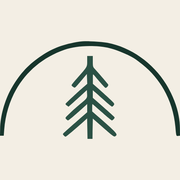
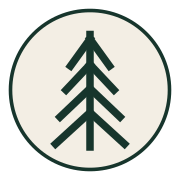
Add files via upload

diff --git a/team.html b/team.html
@@ -1,22 +1,22 @@
-<!doctype html><html lang="en"><head><link rel="icon" href="images/favicon.svg" type="image/svg+xml"><link rel="icon" href="images/favicon-32.png" sizes="32x32" type="image/png"><link rel="icon" href="images/favicon.ico" sizes="any"><link rel="apple-touch-icon" href="images/apple-touch-icon.png"><meta charset="utf-8"><meta name="viewport" content="width=device-width,initial-scale=1"><title>Our Team | Fir Forensics</title><meta name="description" content="Meet Rick Adams and Ryan Adams, the leadership team behind Fir Forensics."><meta name="theme-color" content="#17352c"><link rel="preconnect" href="https://fonts.googleapis.com"><link rel="preconnect" href="https://fonts.gstatic.com" crossorigin><link href="https://fonts.googleapis.com/css2?family=DM+Sans:wght@400;500;600;700&family=Libre+Caslon+Display&display=swap" rel="stylesheet"><link rel="stylesheet" href="css/styles.css?v=12684427"></head><body data-page="team"><a class="skip-link" href="#main">Skip to content</a>
-<header class="site-header"><div class="container header-inner"><div class="brand"><a class="brand-icon-link" href="index.html" aria-label="Fir Forensics home"><svg class="brand-icon" viewBox="0 0 288 156.141338" xmlns="http://www.w3.org/2000/svg" aria-hidden="true"><g transform="translate(-27.5,195.641338) scale(0.1,-0.1)"><path d="M1545 1950 c-251 -39 -419 -101 -603 -224 -208 -138 -340 -279 -476
--509 -111 -189 -186 -449 -189 -662 l-2 -110 30 0 30 0 7 95 c48 611 407 1086
-965 1281 115 39 246 59 400 59 225 0 356 -28 569 -123 122 -54 156 -75 282
--176 301 -243 487 -595 523 -994 14 -153 13 -149 46 -145 l28 3 -1 115 c-2
-232 -77 472 -222 710 -206 337 -566 591 -937 661 -124 23 -356 33 -450 19z" fill="#17352c"/><path d="M1670 1638 c0 -94 6 -85 -167 -280 -46 -51 -83 -98 -83 -104 0 -6 12
--20 26 -29 30 -20 19 -30 157 134 l62 74 3 -79 3 -79 -52 -45 c-93 -79 -292
--265 -295 -275 -2 -6 8 -18 22 -28 l25 -18 77 68 c42 37 109 97 147 133 l70
-65 3 -59 c4 -68 4 -68 -113 -166 -45 -37 -117 -101 -160 -143 -80 -75 -80 -75
--61 -96 11 -11 23 -21 29 -21 10 0 88 65 220 183 l87 79 0 -65 0 -66 -66 -58
-c-74 -64 -225 -198 -288 -254 -41 -37 -41 -37 -22 -58 11 -12 24 -21 30 -21
-10 0 113 86 285 238 l60 54 3 -164 3 -163 40 0 40 0 1 95 c1 52 2 125 3 162
-l1 68 151 -133 c180 -158 192 -166 213 -148 37 31 28 42 -272 305 l-102 89 0
-59 c0 32 2 58 5 58 3 0 71 -59 151 -130 80 -72 151 -130 158 -130 16 0 49 36
-45 48 -4 9 -55 55 -286 258 l-63 55 0 61 0 60 34 -29 c19 -15 85 -74 147 -130
-63 -57 119 -103 126 -103 6 0 19 10 27 22 15 22 14 25 -39 78 -30 30 -109 102
--174 160 l-120 105 0 80 c0 77 0 79 17 60 113 -135 177 -205 187 -205 18 0 48
-37 42 52 -4 11 -119 145 -218 255 -27 30 -29 38 -29 118 l0 85 -45 0 -45 0 0
--82z" fill="#2b5145"/></g></svg></a><div class="brand-textstack"><a class="brand-name-link" href="index.html"><strong class="brand-name">Fir Forensics</strong></a><small class="brand-tagline">Workplace Investigations &bull; Ethics &bull; Compliance</small></div><a class="group-badge" href="https://firgroup.org" target="_blank" rel="noopener">A Member of The Fir Group Family</a></div><button class="nav-toggle" type="button" aria-label="Open navigation" aria-expanded="false"><span></span><span></span><span></span></button><nav class="primary-nav" aria-label="Primary navigation"><a href="about.html" data-page="about">About</a><a href="team.html" data-page="team">Our Team</a><a href="services.html" data-page="services">Services</a><a href="process.html" data-page="process">Our Process</a><a href="why-fir.html" data-page="why">Why Fir</a><a class="nav-cta" href="contact.html" data-page="contact">Confidential Consultation</a></nav></div></header>
+<!doctype html><html lang="en"><head><link rel="icon" href="images/favicon.svg" type="image/svg+xml"><link rel="icon" href="images/favicon-32.png" sizes="32x32" type="image/png"><link rel="icon" href="images/favicon.ico" sizes="any"><link rel="apple-touch-icon" href="images/apple-touch-icon.png"><meta charset="utf-8"><meta name="viewport" content="width=device-width,initial-scale=1"><title>Our Team | Fir Forensics</title><meta name="description" content="Meet Rick Adams and Ryan Adams, the leadership team behind Fir Forensics."><meta name="theme-color" content="#17352c"><link rel="preconnect" href="https://fonts.googleapis.com"><link rel="preconnect" href="https://fonts.gstatic.com" crossorigin><link href="https://fonts.googleapis.com/css2?family=DM+Sans:wght@400;500;600;700&family=Libre+Caslon+Display&display=swap" rel="stylesheet"><link rel="stylesheet" href="css/styles.css?v=12684427"><link rel="stylesheet" href="css/header-refinement.css?v=1"></head><body data-page="team"><a class="skip-link" href="#main">Skip to content</a>
+<header class="site-header">
+  <div class="container header-top">
+    <a class="brand" href="index.html" aria-label="Fir Forensics home">
+      <span class="brand-mark" aria-hidden="true"></span>
+      <span class="brand-textstack"><strong class="brand-name">FIR</strong><small class="brand-division">FORENSICS</small></span>
+    </a>
+    <a class="header-affiliation" href="https://firgroup.org" target="_blank" rel="noopener"><span>A member of</span><strong>The Fir Group Family</strong></a>
+    <button class="nav-toggle" type="button" aria-label="Open navigation" aria-expanded="false"><span></span><span></span><span></span></button>
+    <nav class="primary-nav" aria-label="Primary navigation">
+      <a href="about.html" data-page="about">About</a>
+      <a href="team.html" data-page="team">Our Team</a>
+      <a href="services.html" data-page="services">Services</a>
+      <a href="process.html" data-page="process">Our Process</a>
+      <a href="why-fir.html" data-page="why">Why Fir</a>
+      <a class="nav-cta" href="contact.html" data-page="contact">Confidential Consultation</a>
+    </nav>
+  </div>
+</header>
 <main id="main"><section class="subhero team-hero"><div class="hero-shade"></div><div class="container subhero-content reveal"><p class="eyebrow light">Our leadership</p><h1>Complementary experience. Shared standards.</h1><p>Fir Forensics brings together legal judgment, corporate risk and compliance leadership, operational discipline, and a commitment to fair, evidence-based investigations.</p></div></section>
 <section class="section"><div class="container"><div class="section-heading"><div><p class="eyebrow">Meet the team</p><h2>Senior professionals for matters that require judgment and credibility.</h2></div><p>Every engagement is approached with discretion, independence, and respect for the people and organizations involved.</p></div>
 <div class="team-grid">

diff --git a/index.html b/index.html
@@ -1,24 +1,11 @@
-<!doctype html><html lang="en"><head><link rel="icon" href="images/favicon.svg" type="image/svg+xml"><link rel="icon" href="images/favicon-32.png" sizes="32x32" type="image/png"><link rel="icon" href="images/favicon.ico" sizes="any"><link rel="apple-touch-icon" href="images/apple-touch-icon.png"><meta charset="utf-8"><meta name="viewport" content="width=device-width,initial-scale=1"><title>Fir Forensics | Workplace Investigations · Ethics · Compliance</title><meta name="description" content="Independent workplace investigations for employers, counsel, boards, and organizations."><meta name="theme-color" content="#17352c"><link rel="preconnect" href="https://fonts.googleapis.com"><link rel="preconnect" href="https://fonts.gstatic.com" crossorigin><link href="https://fonts.googleapis.com/css2?family=DM+Sans:wght@400;500;600;700&family=Libre+Caslon+Display&display=swap" rel="stylesheet"><link rel="stylesheet" href="css/styles.css?v=12684427"></head><body data-page="home"><a class="skip-link" href="#main">Skip to content</a>
+<!doctype html><html lang="en"><head><link rel="icon" href="images/favicon.svg" type="image/svg+xml"><link rel="icon" href="images/favicon-32.png" sizes="32x32" type="image/png"><link rel="icon" href="images/favicon.ico" sizes="any"><link rel="apple-touch-icon" href="images/apple-touch-icon.png"><meta charset="utf-8"><meta name="viewport" content="width=device-width,initial-scale=1"><title>Fir Forensics | Workplace Investigations · Ethics · Compliance</title><meta name="description" content="Independent workplace investigations for employers, counsel, boards, and organizations."><meta name="theme-color" content="#17352c"><link rel="preconnect" href="https://fonts.googleapis.com"><link rel="preconnect" href="https://fonts.gstatic.com" crossorigin><link href="https://fonts.googleapis.com/css2?family=DM+Sans:wght@400;500;600;700&family=Libre+Caslon+Display&display=swap" rel="stylesheet"><link rel="stylesheet" href="css/styles.css?v=12684427"><link rel="stylesheet" href="css/header-refinement.css?v=1"></head><body data-page="home"><a class="skip-link" href="#main">Skip to content</a>
 <header class="site-header">
-  <div class="container header-inner">
-    <div class="brand"><a class="brand-icon-link" href="index.html" aria-label="Fir Forensics home"><svg class="brand-icon" viewBox="0 0 288 156.141338" xmlns="http://www.w3.org/2000/svg" aria-hidden="true"><g transform="translate(-27.5,195.641338) scale(0.1,-0.1)"><path d="M1545 1950 c-251 -39 -419 -101 -603 -224 -208 -138 -340 -279 -476
--509 -111 -189 -186 -449 -189 -662 l-2 -110 30 0 30 0 7 95 c48 611 407 1086
-965 1281 115 39 246 59 400 59 225 0 356 -28 569 -123 122 -54 156 -75 282
--176 301 -243 487 -595 523 -994 14 -153 13 -149 46 -145 l28 3 -1 115 c-2
-232 -77 472 -222 710 -206 337 -566 591 -937 661 -124 23 -356 33 -450 19z" fill="#17352c"/><path d="M1670 1638 c0 -94 6 -85 -167 -280 -46 -51 -83 -98 -83 -104 0 -6 12
--20 26 -29 30 -20 19 -30 157 134 l62 74 3 -79 3 -79 -52 -45 c-93 -79 -292
--265 -295 -275 -2 -6 8 -18 22 -28 l25 -18 77 68 c42 37 109 97 147 133 l70
-65 3 -59 c4 -68 4 -68 -113 -166 -45 -37 -117 -101 -160 -143 -80 -75 -80 -75
--61 -96 11 -11 23 -21 29 -21 10 0 88 65 220 183 l87 79 0 -65 0 -66 -66 -58
-c-74 -64 -225 -198 -288 -254 -41 -37 -41 -37 -22 -58 11 -12 24 -21 30 -21
-10 0 113 86 285 238 l60 54 3 -164 3 -163 40 0 40 0 1 95 c1 52 2 125 3 162
-l1 68 151 -133 c180 -158 192 -166 213 -148 37 31 28 42 -272 305 l-102 89 0
-59 c0 32 2 58 5 58 3 0 71 -59 151 -130 80 -72 151 -130 158 -130 16 0 49 36
-45 48 -4 9 -55 55 -286 258 l-63 55 0 61 0 60 34 -29 c19 -15 85 -74 147 -130
-63 -57 119 -103 126 -103 6 0 19 10 27 22 15 22 14 25 -39 78 -30 30 -109 102
--174 160 l-120 105 0 80 c0 77 0 79 17 60 113 -135 177 -205 187 -205 18 0 48
-37 42 52 -4 11 -119 145 -218 255 -27 30 -29 38 -29 118 l0 85 -45 0 -45 0 0
--82z" fill="#2b5145"/></g></svg></a><div class="brand-textstack"><a class="brand-name-link" href="index.html"><strong class="brand-name">Fir Forensics</strong></a><small class="brand-tagline">Workplace Investigations &bull; Ethics &bull; Compliance</small></div><a class="group-badge" href="https://firgroup.org" target="_blank" rel="noopener">A Member of The Fir Group Family</a></div>
+  <div class="container header-top">
+    <a class="brand" href="index.html" aria-label="Fir Forensics home">
+      <span class="brand-mark" aria-hidden="true"></span>
+      <span class="brand-textstack"><strong class="brand-name">FIR</strong><small class="brand-division">FORENSICS</small></span>
+    </a>
+    <a class="header-affiliation" href="https://firgroup.org" target="_blank" rel="noopener"><span>A member of</span><strong>The Fir Group Family</strong></a>
     <button class="nav-toggle" type="button" aria-label="Open navigation" aria-expanded="false"><span></span><span></span><span></span></button>
     <nav class="primary-nav" aria-label="Primary navigation">
       <a href="about.html" data-page="about">About</a>

diff --git a/contact.html b/contact.html
@@ -1,24 +1,11 @@
-<!doctype html><html lang="en"><head><link rel="icon" href="images/favicon.svg" type="image/svg+xml"><link rel="icon" href="images/favicon-32.png" sizes="32x32" type="image/png"><link rel="icon" href="images/favicon.ico" sizes="any"><link rel="apple-touch-icon" href="images/apple-touch-icon.png"><meta charset="utf-8"><meta name="viewport" content="width=device-width,initial-scale=1"><title>Confidential Consultation | Fir Forensics</title><meta name="description" content="Contact Fir Forensics to discuss a workplace investigation, ethics matter, or compliance review."><meta name="theme-color" content="#17352c"><link rel="preconnect" href="https://fonts.googleapis.com"><link rel="preconnect" href="https://fonts.gstatic.com" crossorigin><link href="https://fonts.googleapis.com/css2?family=DM+Sans:wght@400;500;600;700&family=Libre+Caslon+Display&display=swap" rel="stylesheet"><link rel="stylesheet" href="css/styles.css?v=12684427"></head><body data-page="contact"><a class="skip-link" href="#main">Skip to content</a>
+<!doctype html><html lang="en"><head><link rel="icon" href="images/favicon.svg" type="image/svg+xml"><link rel="icon" href="images/favicon-32.png" sizes="32x32" type="image/png"><link rel="icon" href="images/favicon.ico" sizes="any"><link rel="apple-touch-icon" href="images/apple-touch-icon.png"><meta charset="utf-8"><meta name="viewport" content="width=device-width,initial-scale=1"><title>Confidential Consultation | Fir Forensics</title><meta name="description" content="Contact Fir Forensics to discuss a workplace investigation, ethics matter, or compliance review."><meta name="theme-color" content="#17352c"><link rel="preconnect" href="https://fonts.googleapis.com"><link rel="preconnect" href="https://fonts.gstatic.com" crossorigin><link href="https://fonts.googleapis.com/css2?family=DM+Sans:wght@400;500;600;700&family=Libre+Caslon+Display&display=swap" rel="stylesheet"><link rel="stylesheet" href="css/styles.css?v=12684427"><link rel="stylesheet" href="css/header-refinement.css?v=1"></head><body data-page="contact"><a class="skip-link" href="#main">Skip to content</a>
 <header class="site-header">
-  <div class="container header-inner">
-    <div class="brand"><a class="brand-icon-link" href="index.html" aria-label="Fir Forensics home"><svg class="brand-icon" viewBox="0 0 288 156.141338" xmlns="http://www.w3.org/2000/svg" aria-hidden="true"><g transform="translate(-27.5,195.641338) scale(0.1,-0.1)"><path d="M1545 1950 c-251 -39 -419 -101 -603 -224 -208 -138 -340 -279 -476
--509 -111 -189 -186 -449 -189 -662 l-2 -110 30 0 30 0 7 95 c48 611 407 1086
-965 1281 115 39 246 59 400 59 225 0 356 -28 569 -123 122 -54 156 -75 282
--176 301 -243 487 -595 523 -994 14 -153 13 -149 46 -145 l28 3 -1 115 c-2
-232 -77 472 -222 710 -206 337 -566 591 -937 661 -124 23 -356 33 -450 19z" fill="#17352c"/><path d="M1670 1638 c0 -94 6 -85 -167 -280 -46 -51 -83 -98 -83 -104 0 -6 12
--20 26 -29 30 -20 19 -30 157 134 l62 74 3 -79 3 -79 -52 -45 c-93 -79 -292
--265 -295 -275 -2 -6 8 -18 22 -28 l25 -18 77 68 c42 37 109 97 147 133 l70
-65 3 -59 c4 -68 4 -68 -113 -166 -45 -37 -117 -101 -160 -143 -80 -75 -80 -75
--61 -96 11 -11 23 -21 29 -21 10 0 88 65 220 183 l87 79 0 -65 0 -66 -66 -58
-c-74 -64 -225 -198 -288 -254 -41 -37 -41 -37 -22 -58 11 -12 24 -21 30 -21
-10 0 113 86 285 238 l60 54 3 -164 3 -163 40 0 40 0 1 95 c1 52 2 125 3 162
-l1 68 151 -133 c180 -158 192 -166 213 -148 37 31 28 42 -272 305 l-102 89 0
-59 c0 32 2 58 5 58 3 0 71 -59 151 -130 80 -72 151 -130 158 -130 16 0 49 36
-45 48 -4 9 -55 55 -286 258 l-63 55 0 61 0 60 34 -29 c19 -15 85 -74 147 -130
-63 -57 119 -103 126 -103 6 0 19 10 27 22 15 22 14 25 -39 78 -30 30 -109 102
--174 160 l-120 105 0 80 c0 77 0 79 17 60 113 -135 177 -205 187 -205 18 0 48
-37 42 52 -4 11 -119 145 -218 255 -27 30 -29 38 -29 118 l0 85 -45 0 -45 0 0
--82z" fill="#2b5145"/></g></svg></a><div class="brand-textstack"><a class="brand-name-link" href="index.html"><strong class="brand-name">Fir Forensics</strong></a><small class="brand-tagline">Workplace Investigations &bull; Ethics &bull; Compliance</small></div><a class="group-badge" href="https://firgroup.org" target="_blank" rel="noopener">A Member of The Fir Group Family</a></div>
+  <div class="container header-top">
+    <a class="brand" href="index.html" aria-label="Fir Forensics home">
+      <span class="brand-mark" aria-hidden="true"></span>
+      <span class="brand-textstack"><strong class="brand-name">FIR</strong><small class="brand-division">FORENSICS</small></span>
+    </a>
+    <a class="header-affiliation" href="https://firgroup.org" target="_blank" rel="noopener"><span>A member of</span><strong>The Fir Group Family</strong></a>
     <button class="nav-toggle" type="button" aria-label="Open navigation" aria-expanded="false"><span></span><span></span><span></span></button>
     <nav class="primary-nav" aria-label="Primary navigation">
       <a href="about.html" data-page="about">About</a>

diff --git a/services.html b/services.html
@@ -1,24 +1,11 @@
-<!doctype html><html lang="en"><head><link rel="icon" href="images/favicon.svg" type="image/svg+xml"><link rel="icon" href="images/favicon-32.png" sizes="32x32" type="image/png"><link rel="icon" href="images/favicon.ico" sizes="any"><link rel="apple-touch-icon" href="images/apple-touch-icon.png"><meta charset="utf-8"><meta name="viewport" content="width=device-width,initial-scale=1"><title>Services | Fir Forensics</title><meta name="description" content="Workplace investigations, executive matters, ethics and compliance fact-finding, and investigative review."><meta name="theme-color" content="#17352c"><link rel="preconnect" href="https://fonts.googleapis.com"><link rel="preconnect" href="https://fonts.gstatic.com" crossorigin><link href="https://fonts.googleapis.com/css2?family=DM+Sans:wght@400;500;600;700&family=Libre+Caslon+Display&display=swap" rel="stylesheet"><link rel="stylesheet" href="css/styles.css?v=12684427"></head><body data-page="services"><a class="skip-link" href="#main">Skip to content</a>
+<!doctype html><html lang="en"><head><link rel="icon" href="images/favicon.svg" type="image/svg+xml"><link rel="icon" href="images/favicon-32.png" sizes="32x32" type="image/png"><link rel="icon" href="images/favicon.ico" sizes="any"><link rel="apple-touch-icon" href="images/apple-touch-icon.png"><meta charset="utf-8"><meta name="viewport" content="width=device-width,initial-scale=1"><title>Services | Fir Forensics</title><meta name="description" content="Workplace investigations, executive matters, ethics and compliance fact-finding, and investigative review."><meta name="theme-color" content="#17352c"><link rel="preconnect" href="https://fonts.googleapis.com"><link rel="preconnect" href="https://fonts.gstatic.com" crossorigin><link href="https://fonts.googleapis.com/css2?family=DM+Sans:wght@400;500;600;700&family=Libre+Caslon+Display&display=swap" rel="stylesheet"><link rel="stylesheet" href="css/styles.css?v=12684427"><link rel="stylesheet" href="css/header-refinement.css?v=1"></head><body data-page="services"><a class="skip-link" href="#main">Skip to content</a>
 <header class="site-header">
-  <div class="container header-inner">
-    <div class="brand"><a class="brand-icon-link" href="index.html" aria-label="Fir Forensics home"><svg class="brand-icon" viewBox="0 0 288 156.141338" xmlns="http://www.w3.org/2000/svg" aria-hidden="true"><g transform="translate(-27.5,195.641338) scale(0.1,-0.1)"><path d="M1545 1950 c-251 -39 -419 -101 -603 -224 -208 -138 -340 -279 -476
--509 -111 -189 -186 -449 -189 -662 l-2 -110 30 0 30 0 7 95 c48 611 407 1086
-965 1281 115 39 246 59 400 59 225 0 356 -28 569 -123 122 -54 156 -75 282
--176 301 -243 487 -595 523 -994 14 -153 13 -149 46 -145 l28 3 -1 115 c-2
-232 -77 472 -222 710 -206 337 -566 591 -937 661 -124 23 -356 33 -450 19z" fill="#17352c"/><path d="M1670 1638 c0 -94 6 -85 -167 -280 -46 -51 -83 -98 -83 -104 0 -6 12
--20 26 -29 30 -20 19 -30 157 134 l62 74 3 -79 3 -79 -52 -45 c-93 -79 -292
--265 -295 -275 -2 -6 8 -18 22 -28 l25 -18 77 68 c42 37 109 97 147 133 l70
-65 3 -59 c4 -68 4 -68 -113 -166 -45 -37 -117 -101 -160 -143 -80 -75 -80 -75
--61 -96 11 -11 23 -21 29 -21 10 0 88 65 220 183 l87 79 0 -65 0 -66 -66 -58
-c-74 -64 -225 -198 -288 -254 -41 -37 -41 -37 -22 -58 11 -12 24 -21 30 -21
-10 0 113 86 285 238 l60 54 3 -164 3 -163 40 0 40 0 1 95 c1 52 2 125 3 162
-l1 68 151 -133 c180 -158 192 -166 213 -148 37 31 28 42 -272 305 l-102 89 0
-59 c0 32 2 58 5 58 3 0 71 -59 151 -130 80 -72 151 -130 158 -130 16 0 49 36
-45 48 -4 9 -55 55 -286 258 l-63 55 0 61 0 60 34 -29 c19 -15 85 -74 147 -130
-63 -57 119 -103 126 -103 6 0 19 10 27 22 15 22 14 25 -39 78 -30 30 -109 102
--174 160 l-120 105 0 80 c0 77 0 79 17 60 113 -135 177 -205 187 -205 18 0 48
-37 42 52 -4 11 -119 145 -218 255 -27 30 -29 38 -29 118 l0 85 -45 0 -45 0 0
--82z" fill="#2b5145"/></g></svg></a><div class="brand-textstack"><a class="brand-name-link" href="index.html"><strong class="brand-name">Fir Forensics</strong></a><small class="brand-tagline">Workplace Investigations &bull; Ethics &bull; Compliance</small></div><a class="group-badge" href="https://firgroup.org" target="_blank" rel="noopener">A Member of The Fir Group Family</a></div>
+  <div class="container header-top">
+    <a class="brand" href="index.html" aria-label="Fir Forensics home">
+      <span class="brand-mark" aria-hidden="true"></span>
+      <span class="brand-textstack"><strong class="brand-name">FIR</strong><small class="brand-division">FORENSICS</small></span>
+    </a>
+    <a class="header-affiliation" href="https://firgroup.org" target="_blank" rel="noopener"><span>A member of</span><strong>The Fir Group Family</strong></a>
     <button class="nav-toggle" type="button" aria-label="Open navigation" aria-expanded="false"><span></span><span></span><span></span></button>
     <nav class="primary-nav" aria-label="Primary navigation">
       <a href="about.html" data-page="about">About</a>

diff --git a/about.html b/about.html
@@ -1,24 +1,11 @@
-<!doctype html><html lang="en"><head><link rel="icon" href="images/favicon.svg" type="image/svg+xml"><link rel="icon" href="images/favicon-32.png" sizes="32x32" type="image/png"><link rel="icon" href="images/favicon.ico" sizes="any"><link rel="apple-touch-icon" href="images/apple-touch-icon.png"><meta charset="utf-8"><meta name="viewport" content="width=device-width,initial-scale=1"><title>About | Fir Forensics</title><meta name="description" content="Learn about Fir Forensics and our independent, evidence-based approach to workplace investigations."><meta name="theme-color" content="#17352c"><link rel="preconnect" href="https://fonts.googleapis.com"><link rel="preconnect" href="https://fonts.gstatic.com" crossorigin><link href="https://fonts.googleapis.com/css2?family=DM+Sans:wght@400;500;600;700&family=Libre+Caslon+Display&display=swap" rel="stylesheet"><link rel="stylesheet" href="css/styles.css?v=12684427"></head><body data-page="about"><a class="skip-link" href="#main">Skip to content</a>
+<!doctype html><html lang="en"><head><link rel="icon" href="images/favicon.svg" type="image/svg+xml"><link rel="icon" href="images/favicon-32.png" sizes="32x32" type="image/png"><link rel="icon" href="images/favicon.ico" sizes="any"><link rel="apple-touch-icon" href="images/apple-touch-icon.png"><meta charset="utf-8"><meta name="viewport" content="width=device-width,initial-scale=1"><title>About | Fir Forensics</title><meta name="description" content="Learn about Fir Forensics and our independent, evidence-based approach to workplace investigations."><meta name="theme-color" content="#17352c"><link rel="preconnect" href="https://fonts.googleapis.com"><link rel="preconnect" href="https://fonts.gstatic.com" crossorigin><link href="https://fonts.googleapis.com/css2?family=DM+Sans:wght@400;500;600;700&family=Libre+Caslon+Display&display=swap" rel="stylesheet"><link rel="stylesheet" href="css/styles.css?v=12684427"><link rel="stylesheet" href="css/header-refinement.css?v=1"></head><body data-page="about"><a class="skip-link" href="#main">Skip to content</a>
 <header class="site-header">
-  <div class="container header-inner">
-    <div class="brand"><a class="brand-icon-link" href="index.html" aria-label="Fir Forensics home"><svg class="brand-icon" viewBox="0 0 288 156.141338" xmlns="http://www.w3.org/2000/svg" aria-hidden="true"><g transform="translate(-27.5,195.641338) scale(0.1,-0.1)"><path d="M1545 1950 c-251 -39 -419 -101 -603 -224 -208 -138 -340 -279 -476
--509 -111 -189 -186 -449 -189 -662 l-2 -110 30 0 30 0 7 95 c48 611 407 1086
-965 1281 115 39 246 59 400 59 225 0 356 -28 569 -123 122 -54 156 -75 282
--176 301 -243 487 -595 523 -994 14 -153 13 -149 46 -145 l28 3 -1 115 c-2
-232 -77 472 -222 710 -206 337 -566 591 -937 661 -124 23 -356 33 -450 19z" fill="#17352c"/><path d="M1670 1638 c0 -94 6 -85 -167 -280 -46 -51 -83 -98 -83 -104 0 -6 12
--20 26 -29 30 -20 19 -30 157 134 l62 74 3 -79 3 -79 -52 -45 c-93 -79 -292
--265 -295 -275 -2 -6 8 -18 22 -28 l25 -18 77 68 c42 37 109 97 147 133 l70
-65 3 -59 c4 -68 4 -68 -113 -166 -45 -37 -117 -101 -160 -143 -80 -75 -80 -75
--61 -96 11 -11 23 -21 29 -21 10 0 88 65 220 183 l87 79 0 -65 0 -66 -66 -58
-c-74 -64 -225 -198 -288 -254 -41 -37 -41 -37 -22 -58 11 -12 24 -21 30 -21
-10 0 113 86 285 238 l60 54 3 -164 3 -163 40 0 40 0 1 95 c1 52 2 125 3 162
-l1 68 151 -133 c180 -158 192 -166 213 -148 37 31 28 42 -272 305 l-102 89 0
-59 c0 32 2 58 5 58 3 0 71 -59 151 -130 80 -72 151 -130 158 -130 16 0 49 36
-45 48 -4 9 -55 55 -286 258 l-63 55 0 61 0 60 34 -29 c19 -15 85 -74 147 -130
-63 -57 119 -103 126 -103 6 0 19 10 27 22 15 22 14 25 -39 78 -30 30 -109 102
--174 160 l-120 105 0 80 c0 77 0 79 17 60 113 -135 177 -205 187 -205 18 0 48
-37 42 52 -4 11 -119 145 -218 255 -27 30 -29 38 -29 118 l0 85 -45 0 -45 0 0
--82z" fill="#2b5145"/></g></svg></a><div class="brand-textstack"><a class="brand-name-link" href="index.html"><strong class="brand-name">Fir Forensics</strong></a><small class="brand-tagline">Workplace Investigations &bull; Ethics &bull; Compliance</small></div><a class="group-badge" href="https://firgroup.org" target="_blank" rel="noopener">A Member of The Fir Group Family</a></div>
+  <div class="container header-top">
+    <a class="brand" href="index.html" aria-label="Fir Forensics home">
+      <span class="brand-mark" aria-hidden="true"></span>
+      <span class="brand-textstack"><strong class="brand-name">FIR</strong><small class="brand-division">FORENSICS</small></span>
+    </a>
+    <a class="header-affiliation" href="https://firgroup.org" target="_blank" rel="noopener"><span>A member of</span><strong>The Fir Group Family</strong></a>
     <button class="nav-toggle" type="button" aria-label="Open navigation" aria-expanded="false"><span></span><span></span><span></span></button>
     <nav class="primary-nav" aria-label="Primary navigation">
       <a href="about.html" data-page="about">About</a>

diff --git a/why-fir.html b/why-fir.html
@@ -1,24 +1,11 @@
-<!doctype html><html lang="en"><head><link rel="icon" href="images/favicon.svg" type="image/svg+xml"><link rel="icon" href="images/favicon-32.png" sizes="32x32" type="image/png"><link rel="icon" href="images/favicon.ico" sizes="any"><link rel="apple-touch-icon" href="images/apple-touch-icon.png"><meta charset="utf-8"><meta name="viewport" content="width=device-width,initial-scale=1"><title>Why Fir Forensics</title><meta name="description" content="Independent judgment, evidence-driven analysis, executive perspective, and defensible reporting."><meta name="theme-color" content="#17352c"><link rel="preconnect" href="https://fonts.googleapis.com"><link rel="preconnect" href="https://fonts.gstatic.com" crossorigin><link href="https://fonts.googleapis.com/css2?family=DM+Sans:wght@400;500;600;700&family=Libre+Caslon+Display&display=swap" rel="stylesheet"><link rel="stylesheet" href="css/styles.css?v=12684427"></head><body data-page="why"><a class="skip-link" href="#main">Skip to content</a>
+<!doctype html><html lang="en"><head><link rel="icon" href="images/favicon.svg" type="image/svg+xml"><link rel="icon" href="images/favicon-32.png" sizes="32x32" type="image/png"><link rel="icon" href="images/favicon.ico" sizes="any"><link rel="apple-touch-icon" href="images/apple-touch-icon.png"><meta charset="utf-8"><meta name="viewport" content="width=device-width,initial-scale=1"><title>Why Fir Forensics</title><meta name="description" content="Independent judgment, evidence-driven analysis, executive perspective, and defensible reporting."><meta name="theme-color" content="#17352c"><link rel="preconnect" href="https://fonts.googleapis.com"><link rel="preconnect" href="https://fonts.gstatic.com" crossorigin><link href="https://fonts.googleapis.com/css2?family=DM+Sans:wght@400;500;600;700&family=Libre+Caslon+Display&display=swap" rel="stylesheet"><link rel="stylesheet" href="css/styles.css?v=12684427"><link rel="stylesheet" href="css/header-refinement.css?v=1"></head><body data-page="why"><a class="skip-link" href="#main">Skip to content</a>
 <header class="site-header">
-  <div class="container header-inner">
-    <div class="brand"><a class="brand-icon-link" href="index.html" aria-label="Fir Forensics home"><svg class="brand-icon" viewBox="0 0 288 156.141338" xmlns="http://www.w3.org/2000/svg" aria-hidden="true"><g transform="translate(-27.5,195.641338) scale(0.1,-0.1)"><path d="M1545 1950 c-251 -39 -419 -101 -603 -224 -208 -138 -340 -279 -476
--509 -111 -189 -186 -449 -189 -662 l-2 -110 30 0 30 0 7 95 c48 611 407 1086
-965 1281 115 39 246 59 400 59 225 0 356 -28 569 -123 122 -54 156 -75 282
--176 301 -243 487 -595 523 -994 14 -153 13 -149 46 -145 l28 3 -1 115 c-2
-232 -77 472 -222 710 -206 337 -566 591 -937 661 -124 23 -356 33 -450 19z" fill="#17352c"/><path d="M1670 1638 c0 -94 6 -85 -167 -280 -46 -51 -83 -98 -83 -104 0 -6 12
--20 26 -29 30 -20 19 -30 157 134 l62 74 3 -79 3 -79 -52 -45 c-93 -79 -292
--265 -295 -275 -2 -6 8 -18 22 -28 l25 -18 77 68 c42 37 109 97 147 133 l70
-65 3 -59 c4 -68 4 -68 -113 -166 -45 -37 -117 -101 -160 -143 -80 -75 -80 -75
--61 -96 11 -11 23 -21 29 -21 10 0 88 65 220 183 l87 79 0 -65 0 -66 -66 -58
-c-74 -64 -225 -198 -288 -254 -41 -37 -41 -37 -22 -58 11 -12 24 -21 30 -21
-10 0 113 86 285 238 l60 54 3 -164 3 -163 40 0 40 0 1 95 c1 52 2 125 3 162
-l1 68 151 -133 c180 -158 192 -166 213 -148 37 31 28 42 -272 305 l-102 89 0
-59 c0 32 2 58 5 58 3 0 71 -59 151 -130 80 -72 151 -130 158 -130 16 0 49 36
-45 48 -4 9 -55 55 -286 258 l-63 55 0 61 0 60 34 -29 c19 -15 85 -74 147 -130
-63 -57 119 -103 126 -103 6 0 19 10 27 22 15 22 14 25 -39 78 -30 30 -109 102
--174 160 l-120 105 0 80 c0 77 0 79 17 60 113 -135 177 -205 187 -205 18 0 48
-37 42 52 -4 11 -119 145 -218 255 -27 30 -29 38 -29 118 l0 85 -45 0 -45 0 0
--82z" fill="#2b5145"/></g></svg></a><div class="brand-textstack"><a class="brand-name-link" href="index.html"><strong class="brand-name">Fir Forensics</strong></a><small class="brand-tagline">Workplace Investigations &bull; Ethics &bull; Compliance</small></div><a class="group-badge" href="https://firgroup.org" target="_blank" rel="noopener">A Member of The Fir Group Family</a></div>
+  <div class="container header-top">
+    <a class="brand" href="index.html" aria-label="Fir Forensics home">
+      <span class="brand-mark" aria-hidden="true"></span>
+      <span class="brand-textstack"><strong class="brand-name">FIR</strong><small class="brand-division">FORENSICS</small></span>
+    </a>
+    <a class="header-affiliation" href="https://firgroup.org" target="_blank" rel="noopener"><span>A member of</span><strong>The Fir Group Family</strong></a>
     <button class="nav-toggle" type="button" aria-label="Open navigation" aria-expanded="false"><span></span><span></span><span></span></button>
     <nav class="primary-nav" aria-label="Primary navigation">
       <a href="about.html" data-page="about">About</a>

diff --git a/process.html b/process.html
@@ -1,24 +1,11 @@
-<!doctype html><html lang="en"><head><link rel="icon" href="images/favicon.svg" type="image/svg+xml"><link rel="icon" href="images/favicon-32.png" sizes="32x32" type="image/png"><link rel="icon" href="images/favicon.ico" sizes="any"><link rel="apple-touch-icon" href="images/apple-touch-icon.png"><meta charset="utf-8"><meta name="viewport" content="width=device-width,initial-scale=1"><title>Our Process | Fir Forensics</title><meta name="description" content="A disciplined seven-step process for independent workplace investigations."><meta name="theme-color" content="#17352c"><link rel="preconnect" href="https://fonts.googleapis.com"><link rel="preconnect" href="https://fonts.gstatic.com" crossorigin><link href="https://fonts.googleapis.com/css2?family=DM+Sans:wght@400;500;600;700&family=Libre+Caslon+Display&display=swap" rel="stylesheet"><link rel="stylesheet" href="css/styles.css?v=12684427"></head><body data-page="process"><a class="skip-link" href="#main">Skip to content</a>
+<!doctype html><html lang="en"><head><link rel="icon" href="images/favicon.svg" type="image/svg+xml"><link rel="icon" href="images/favicon-32.png" sizes="32x32" type="image/png"><link rel="icon" href="images/favicon.ico" sizes="any"><link rel="apple-touch-icon" href="images/apple-touch-icon.png"><meta charset="utf-8"><meta name="viewport" content="width=device-width,initial-scale=1"><title>Our Process | Fir Forensics</title><meta name="description" content="A disciplined seven-step process for independent workplace investigations."><meta name="theme-color" content="#17352c"><link rel="preconnect" href="https://fonts.googleapis.com"><link rel="preconnect" href="https://fonts.gstatic.com" crossorigin><link href="https://fonts.googleapis.com/css2?family=DM+Sans:wght@400;500;600;700&family=Libre+Caslon+Display&display=swap" rel="stylesheet"><link rel="stylesheet" href="css/styles.css?v=12684427"><link rel="stylesheet" href="css/header-refinement.css?v=1"></head><body data-page="process"><a class="skip-link" href="#main">Skip to content</a>
 <header class="site-header">
-  <div class="container header-inner">
-    <div class="brand"><a class="brand-icon-link" href="index.html" aria-label="Fir Forensics home"><svg class="brand-icon" viewBox="0 0 288 156.141338" xmlns="http://www.w3.org/2000/svg" aria-hidden="true"><g transform="translate(-27.5,195.641338) scale(0.1,-0.1)"><path d="M1545 1950 c-251 -39 -419 -101 -603 -224 -208 -138 -340 -279 -476
--509 -111 -189 -186 -449 -189 -662 l-2 -110 30 0 30 0 7 95 c48 611 407 1086
-965 1281 115 39 246 59 400 59 225 0 356 -28 569 -123 122 -54 156 -75 282
--176 301 -243 487 -595 523 -994 14 -153 13 -149 46 -145 l28 3 -1 115 c-2
-232 -77 472 -222 710 -206 337 -566 591 -937 661 -124 23 -356 33 -450 19z" fill="#17352c"/><path d="M1670 1638 c0 -94 6 -85 -167 -280 -46 -51 -83 -98 -83 -104 0 -6 12
--20 26 -29 30 -20 19 -30 157 134 l62 74 3 -79 3 -79 -52 -45 c-93 -79 -292
--265 -295 -275 -2 -6 8 -18 22 -28 l25 -18 77 68 c42 37 109 97 147 133 l70
-65 3 -59 c4 -68 4 -68 -113 -166 -45 -37 -117 -101 -160 -143 -80 -75 -80 -75
--61 -96 11 -11 23 -21 29 -21 10 0 88 65 220 183 l87 79 0 -65 0 -66 -66 -58
-c-74 -64 -225 -198 -288 -254 -41 -37 -41 -37 -22 -58 11 -12 24 -21 30 -21
-10 0 113 86 285 238 l60 54 3 -164 3 -163 40 0 40 0 1 95 c1 52 2 125 3 162
-l1 68 151 -133 c180 -158 192 -166 213 -148 37 31 28 42 -272 305 l-102 89 0
-59 c0 32 2 58 5 58 3 0 71 -59 151 -130 80 -72 151 -130 158 -130 16 0 49 36
-45 48 -4 9 -55 55 -286 258 l-63 55 0 61 0 60 34 -29 c19 -15 85 -74 147 -130
-63 -57 119 -103 126 -103 6 0 19 10 27 22 15 22 14 25 -39 78 -30 30 -109 102
--174 160 l-120 105 0 80 c0 77 0 79 17 60 113 -135 177 -205 187 -205 18 0 48
-37 42 52 -4 11 -119 145 -218 255 -27 30 -29 38 -29 118 l0 85 -45 0 -45 0 0
--82z" fill="#2b5145"/></g></svg></a><div class="brand-textstack"><a class="brand-name-link" href="index.html"><strong class="brand-name">Fir Forensics</strong></a><small class="brand-tagline">Workplace Investigations &bull; Ethics &bull; Compliance</small></div><a class="group-badge" href="https://firgroup.org" target="_blank" rel="noopener">A Member of The Fir Group Family</a></div>
+  <div class="container header-top">
+    <a class="brand" href="index.html" aria-label="Fir Forensics home">
+      <span class="brand-mark" aria-hidden="true"></span>
+      <span class="brand-textstack"><strong class="brand-name">FIR</strong><small class="brand-division">FORENSICS</small></span>
+    </a>
+    <a class="header-affiliation" href="https://firgroup.org" target="_blank" rel="noopener"><span>A member of</span><strong>The Fir Group Family</strong></a>
     <button class="nav-toggle" type="button" aria-label="Open navigation" aria-expanded="false"><span></span><span></span><span></span></button>
     <nav class="primary-nav" aria-label="Primary navigation">
       <a href="about.html" data-page="about">About</a>

diff --git a/css/header-refinement.css b/css/header-refinement.css
@@ -1,0 +1,28 @@
+.site-header{background:#f3eee4;border-bottom:1px solid rgba(23,53,44,.14)}
+.header-top{min-height:88px;display:grid;grid-template-columns:auto minmax(150px,1fr) auto;align-items:center;gap:32px;padding-top:6px;padding-bottom:6px}
+.brand{display:flex;align-items:center;gap:15px;flex:0 0 auto}
+.brand-mark{width:68px;height:68px;display:block;background:url('../images/fir-mark-clean.svg') center/contain no-repeat}
+.brand-textstack{display:flex;flex-direction:column;justify-content:center;gap:0}
+.brand-name{font:400 46px/.82 var(--serif);letter-spacing:.01em;color:var(--forest);-webkit-text-stroke:0;text-stroke:0}
+.brand-division{margin-top:9px;font-size:13px;line-height:1;letter-spacing:.19em;font-weight:700;color:var(--forest)}
+.header-affiliation{position:relative;justify-self:center;display:flex;flex-direction:row;align-items:baseline;justify-content:center;gap:5px;padding:0 22px;text-align:center;text-transform:uppercase;color:#7a817d;line-height:1;transition:color .2s ease;white-space:nowrap}
+.header-affiliation:before,.header-affiliation:after{content:"";position:absolute;top:50%;width:1px;height:46px;background:rgba(23,53,44,.15);transform:translateY(-50%)}
+.header-affiliation:before{left:0}.header-affiliation:after{right:0}
+.header-affiliation span{font-size:8px;letter-spacing:.14em;font-weight:400}
+.header-affiliation strong{margin:0;font-size:9px;letter-spacing:.1em;color:#46544e}
+.header-affiliation:hover,.header-affiliation:focus-visible{color:var(--gold)}
+.header-affiliation:hover strong,.header-affiliation:focus-visible strong{color:var(--gold)}
+.primary-nav{display:flex;align-items:center;justify-content:flex-end;gap:25px;font-size:12px;font-weight:600;letter-spacing:.02em}
+.primary-nav a{position:relative;padding:12px 0;white-space:nowrap}
+.primary-nav a:not(.nav-cta):after{content:"";position:absolute;left:0;right:100%;bottom:6px;height:1px;background:var(--gold);transition:right .2s ease}
+.primary-nav a:not(.nav-cta):hover:after,.primary-nav a.active:not(.nav-cta):after{right:0}
+.nav-cta{background:var(--forest);color:#fff!important;padding:9px 15px!important}
+.nav-toggle{margin-left:auto}
+@media(max-width:1040px){
+  .header-top{min-height:82px;grid-template-columns:auto 1fr auto;gap:18px}.brand-mark{width:60px;height:60px}.brand-name{font-size:40px}.brand-division{font-size:11px;margin-top:8px}.header-affiliation{padding:0 16px}.header-affiliation span{font-size:7px}.header-affiliation strong{font-size:8px}.header-affiliation:before,.header-affiliation:after{height:38px}
+  .nav-toggle{display:block}.primary-nav{display:none;position:absolute;top:82px;left:0;right:0;background:#fff;flex-direction:column;align-items:stretch;padding:22px 30px;box-shadow:0 15px 25px rgba(0,0,0,.1);z-index:20}.primary-nav.open{display:flex}.primary-nav a{padding:8px 0}.nav-cta{text-align:center}
+}
+@media(max-width:680px){
+  .header-top{min-height:78px;display:flex;padding-top:6px;padding-bottom:6px}.brand{gap:11px}.brand-mark{width:54px;height:54px}.brand-name{font-size:35px}.brand-division{font-size:9px;margin-top:7px}.header-affiliation{display:none}.primary-nav{top:78px}
+}
+@media(max-width:390px){.container{width:min(100% - 22px,1180px)}.brand-mark{width:48px;height:48px}.brand-name{font-size:31px}.brand-division{font-size:8px}}
